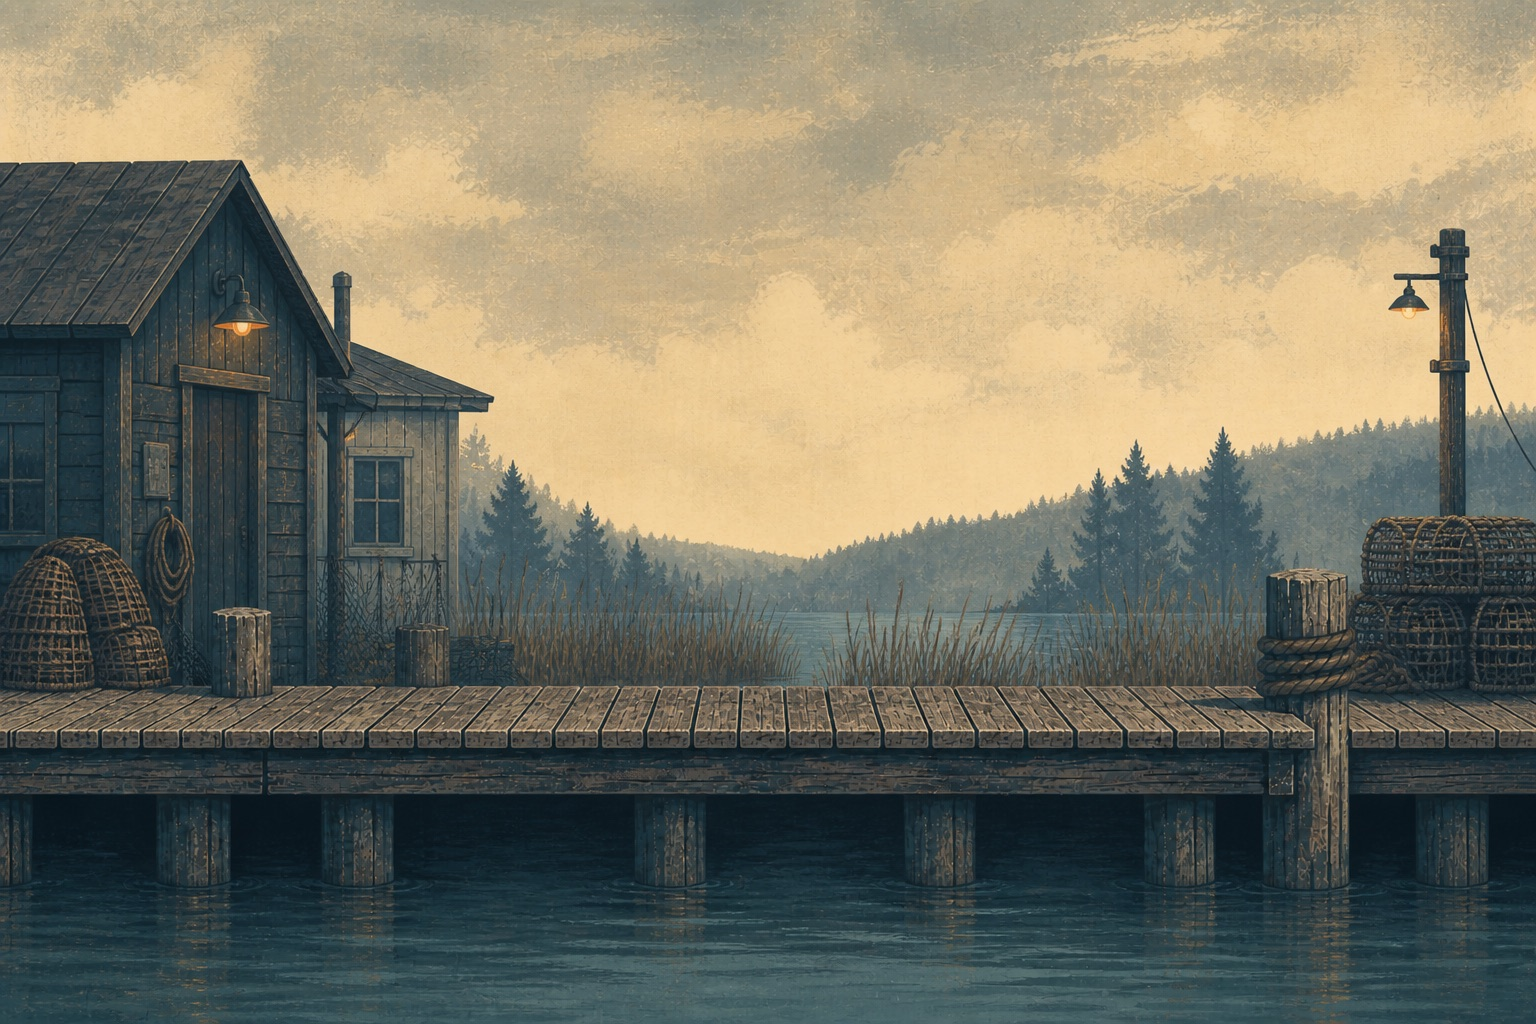
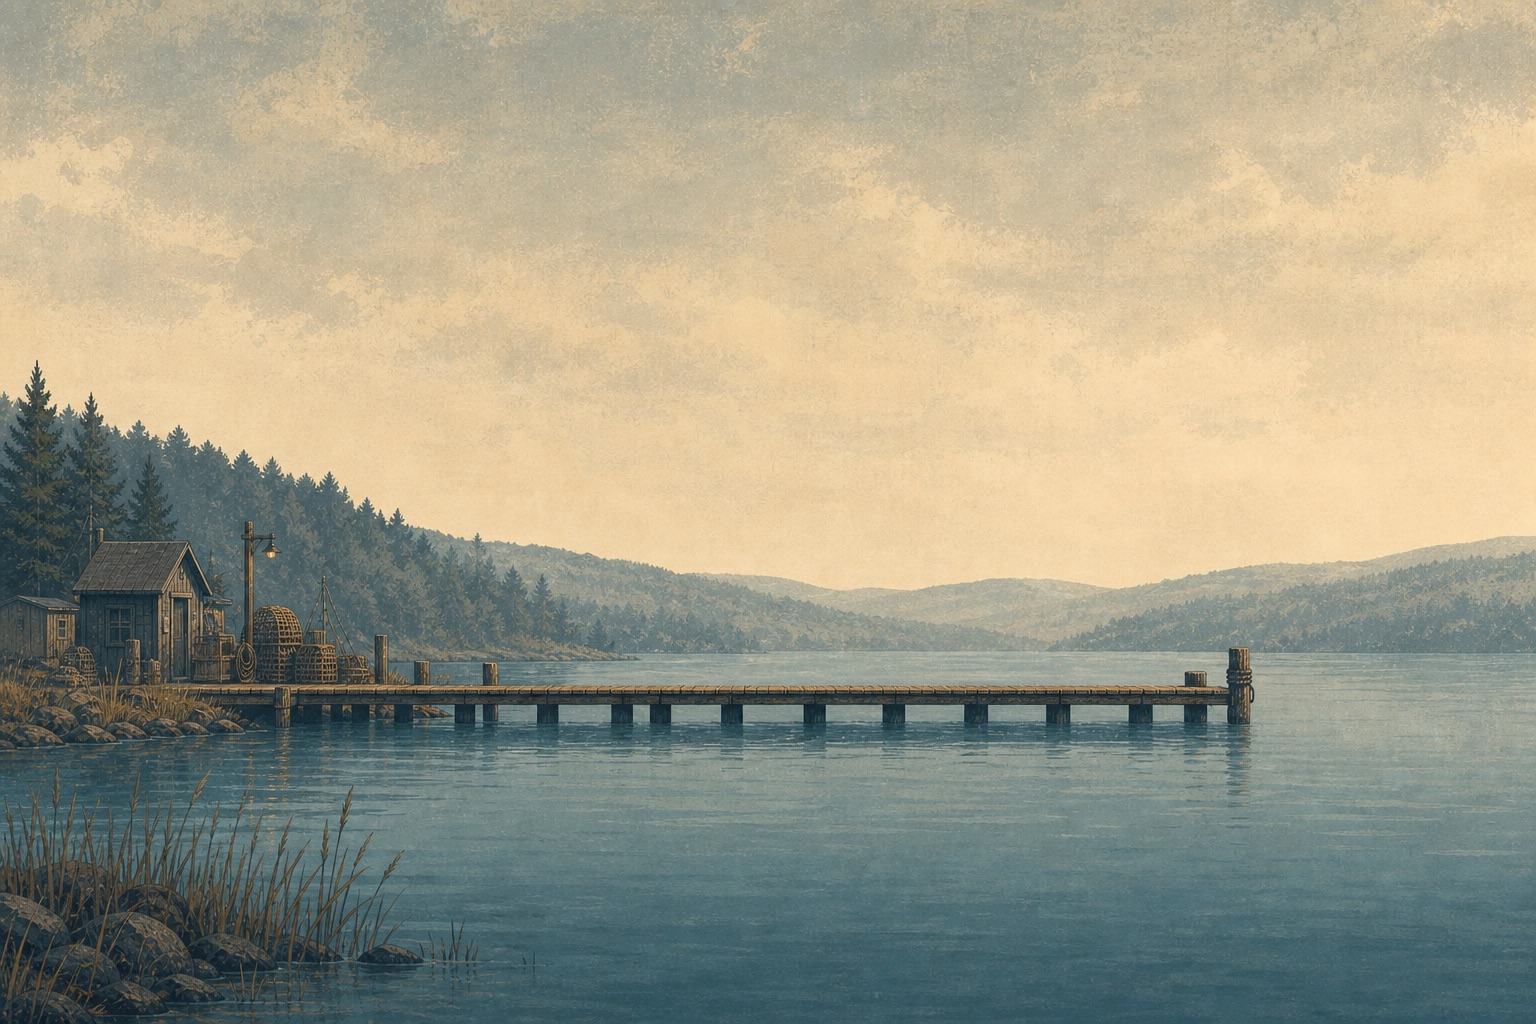
art: rescale and reorient dock backgrounds

diff --git a/Docs/Game-Brief.md b/Docs/Game-Brief.md
@@ -159,7 +159,7 @@ Each harbor acts as a compact service point. A harbor may provide:
 - Region permits
 - Brief NPC dialogue
 
-The first release should reuse a consistent harbor interface rather than build fully explorable towns. Docking changes the full-screen setting behind that interface: Brindle Harbor uses a practical working-pier painting, while Gloam Ferry uses a sparse outer-lake landing. Each dock has matched daytime and nighttime plates, blended from the same night intensity as the sailing panorama so the harbor never contradicts the lake's current time of day. The same waterline transition used for major scene changes covers both entering and leaving a dock, so the lake and dock paintings never snap directly between one another. Reduced-motion mode still swaps the setting immediately.
+The first release should reuse a consistent harbor interface rather than build fully explorable towns. Docking changes the full-screen setting behind that interface: Brindle Harbor uses a practical working-pier painting, while Gloam Ferry uses a sparse outer-lake landing. Both settings use a medium-wide environmental scale consistent with the sailing panorama: the pier stays low in the frame, its construction uses narrow boat-scale planks, and small harbor structures remain in the outer quarters around a quiet menu-safe center. Brindle's shoreline and buildings occupy the left edge while its pier extends rightward to a free terminal end; Gloam's shoreline and landing occupy the right edge while its pier extends leftward to a free terminal end, matching the player's approach from the left. Each dock has matched daytime and nighttime plates, blended from the same night intensity as the sailing panorama so the harbor never contradicts the lake's current time of day. The same waterline transition used for major scene changes covers both entering and leaving a dock, so the lake and dock paintings never snap directly between one another. Reduced-motion mode still swaps the setting immediately.
 
 The harbor interface opens on Delivery and separates Cargo and Dock services into focused submenus. One compact dark translucent dock panel creates a clear hierarchy of location and shells, category tabs, selected content, and secondary navigation. These sections share the same left and right edges. On a fresh save, a compact Survey → Catch → Deliver primer precedes the first guided assignment; this introduces the complete game loop without exposing later dock systems. After onboarding, every submenu omits the repeated objective panel and harbor subtitle so its functional content begins directly below the tabs. Delivery makes the job ticket the immediate visual focus: its job name is centred, its three sequential route steps are large enough to use the available space, the shell payment is explicitly labelled Reward, and active travel guidance uses the same dark panel language rather than a light legacy callout. Cargo uses a ten-slot game inventory: three slots are unlocked on a fresh save, caught fish occupy slots with freshness and release controls, and the other seven use a dedicated transparent cream-and-orange padlock pictogram. Selecting a locked slot gives it the shared restrained mechanical wobble, then opens Dock Services and focuses its tab; neutral borders and focus rings keep amber reserved for primary state. The same roughly half-degree hover/click response applies consistently to enabled buttons across the harbor, main, settings, controls, and pause menus, while reduced-motion settings suppress it. Dock Services presents one clearly separated full-width row per cargo, engine, lamp, line-depth, and permit option without an additional heading panel. Each row uses an icon plate, concise effect copy, a live level meter, and a shell-price purchase control calculated from the real balance model; Repair hull is not offered. Only one harbor function is visible at a time, the selected submenu keeps keyboard focus, and each submenu must fit supported desktop, portrait, and short-landscape viewports without page scrolling. Switching submenus leaves the title block, tab bar, and footer fixed while only the inner content changes. Tabs, service types, shell costs, and help actions use the shared transparent pictogram atlas with short visible labels; each pictogram is centred within an equal sprite cell. Repeated explanatory sentences are removed when the icon and local heading already communicate the action. The background remains recognisable beneath a darker overlay and light blur.
 

diff --git a/Docs/Asset-Manifest.md b/Docs/Asset-Manifest.md
@@ -86,12 +86,12 @@ The boat, harbor pier, fish atlas, and world atlas were requested on a uniform `
 
 - Runtime files: `dock-brindle-day.jpg`, `dock-brindle-night.jpg`, `dock-gloam-day.jpg`, and `dock-gloam-night.jpg`
 - Runtime role: harbor- and time-specific full-screen settings behind the shared dock menu. Brindle Harbor is a practical working pier; Gloam Ferry is a colder, isolated outer-lake landing. Each harbor's day and night plates blend using the sailing scene's night intensity. The paintings are interface backdrops only and contain no boat, characters, labels, or UI.
-- Authoring sources: matching `output/imagegen/dock-*-source.png` files for all four runtime plates
-- Generated source dimensions: all four runtime compositions are normalized to 1536 × 1024 and use quality-82 JPEG compression.
-- Generation mode: OpenAI built-in image generation using `lake-chart.png` as the authoritative painting, palette, atmosphere, and world reference and `harbor-pier.png` as the dock timber/material-scale reference.
-- Shared prompt direction: a close, straight-on dockside setting in restrained editorial gouache and screen print, with identity concentrated in the outer thirds and a calm low-detail center behind the menu panel; full bleed; no boat, fish, people, text, logo, UI, detached sprite, chroma key, or transparency.
-- Brindle direction: practical freshwater working harbor with a weathered foreground pier, modest net shed and research office, creels, rope, reeds, low wooded hills, and blue-green water. The day plate uses warm overcast light; its lighting-weather edit uses readable blue-black night and restrained amber work lamps while preserving the exact composition.
-- Gloam direction: cold outer-lake ferry landing with a weathered foreground pier, small ferry shelter, single beacon, rock shelf, sparse pale reeds, dark conifers, and deep water. The night plate uses cold violet last light; its lighting-weather edit uses clear cool overcast daytime and an unlit beacon while preserving the exact composition.
+- Authoring sources: matching `output/imagegen/dock-*-source.png` files for all four runtime plates, regenerated on 7 August 2026
+- Generated and runtime dimensions: 1536 × 1024 for all four plates; runtime copies use quality-82 JPEG compression.
+- Generation mode: OpenAI built-in image generation using `lake-chart.png` as the authoritative painting, palette, atmosphere, and world-scale reference, `harbor-pier.png` for timber and narrow-plank construction, and `player-boat.png` for scale only. Each nighttime plate is a lighting-weather edit of its approved daytime anchor and preserves the anchor's exact camera, geometry, and placement.
+- Shared prompt direction: a medium-wide, zoomed-out dock environment in restrained editorial gouache and screen print. The pier is a slim human-scale structure with roughly 36–44 narrow plank divisions; harbor identity stays in an outer quarter around a calm low-detail center behind the menu panel. Full bleed; no boat, fish, people, text, logo, UI, detached sprite, chroma key, or transparency.
+- Brindle direction: practical freshwater working harbor attached to the left shoreline, with small sheds, creels, rope, reeds, and low wooded hills confined to the outer left quarter. Its pier extends rightward across open water to a free terminal end on the right. The day plate uses warm overcast light; its composition-matched night edit uses readable blue-black color and restrained amber work lamps.
+- Gloam direction: cold outer-lake ferry landing attached to the right shoreline, with a small ferry shelter, rock shelf, sparse pale reeds, and dark conifers confined to the outer right quarter. Its pier extends leftward across open water to a clearly visible free terminal and beacon on the left, matching the player's approach from that direction. The day plate uses cold clear overcast light; its composition-matched night edit uses deep violet-blue color and localized amber beacon light.
 
 ### `fishing-line-limit-float.png`
 
